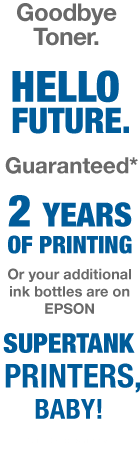
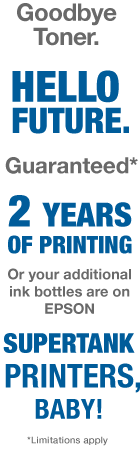
updates

Changed region(s): [[0.2, 0.9559, 0.5714, 0.9868], [0.6, 0.9559, 0.7714, 0.9868]]

diff --git a/demopage/img/Epson_160x600_supertank/index.html b/demopage/img/Epson_160x600_supertank/index.html
@@ -222,9 +222,9 @@
 		#text_02c {
 			position: absolute;
 			clip: rect(420px,200px,650px,0px);
-			top: 150px;
-			left: 12px;
-			opacity: 0;	
+			top: -230px;
+			left: -200px;
+			opacity: 1;	
 			-webkit-font-smoothing: antialiased;			
 		}
 
@@ -240,7 +240,7 @@
 
 		#text_03b {
 			position: absolute;
-			clip: rect(360px,200px,500px,0px);
+			clip: rect(360px,200px,420px,0px);
 			top: -190px;
 			left: 10px;
 			opacity: 0;	
@@ -394,7 +394,7 @@
 						
 						.to(text_02b, 0.5, {opacity:1, left:"12px", ease: Power1.easeOut})
 						.to(text_02a, 0.5, {opacity:1, left:"12px", ease: Power1.easeOut})
-						.to(text_02c, 0.5, {opacity:1, ease: Power1.easeOut},"-=0.5")
+						.to(text_02c, 0.5, {opacity:1, left:"12px", ease: Power1.easeOut},"-=0.5")
 
 
 						.to(text_02a, 0.5, {opacity:0, left:"12px", ease: Power1.easeOut},"+=1.8")
